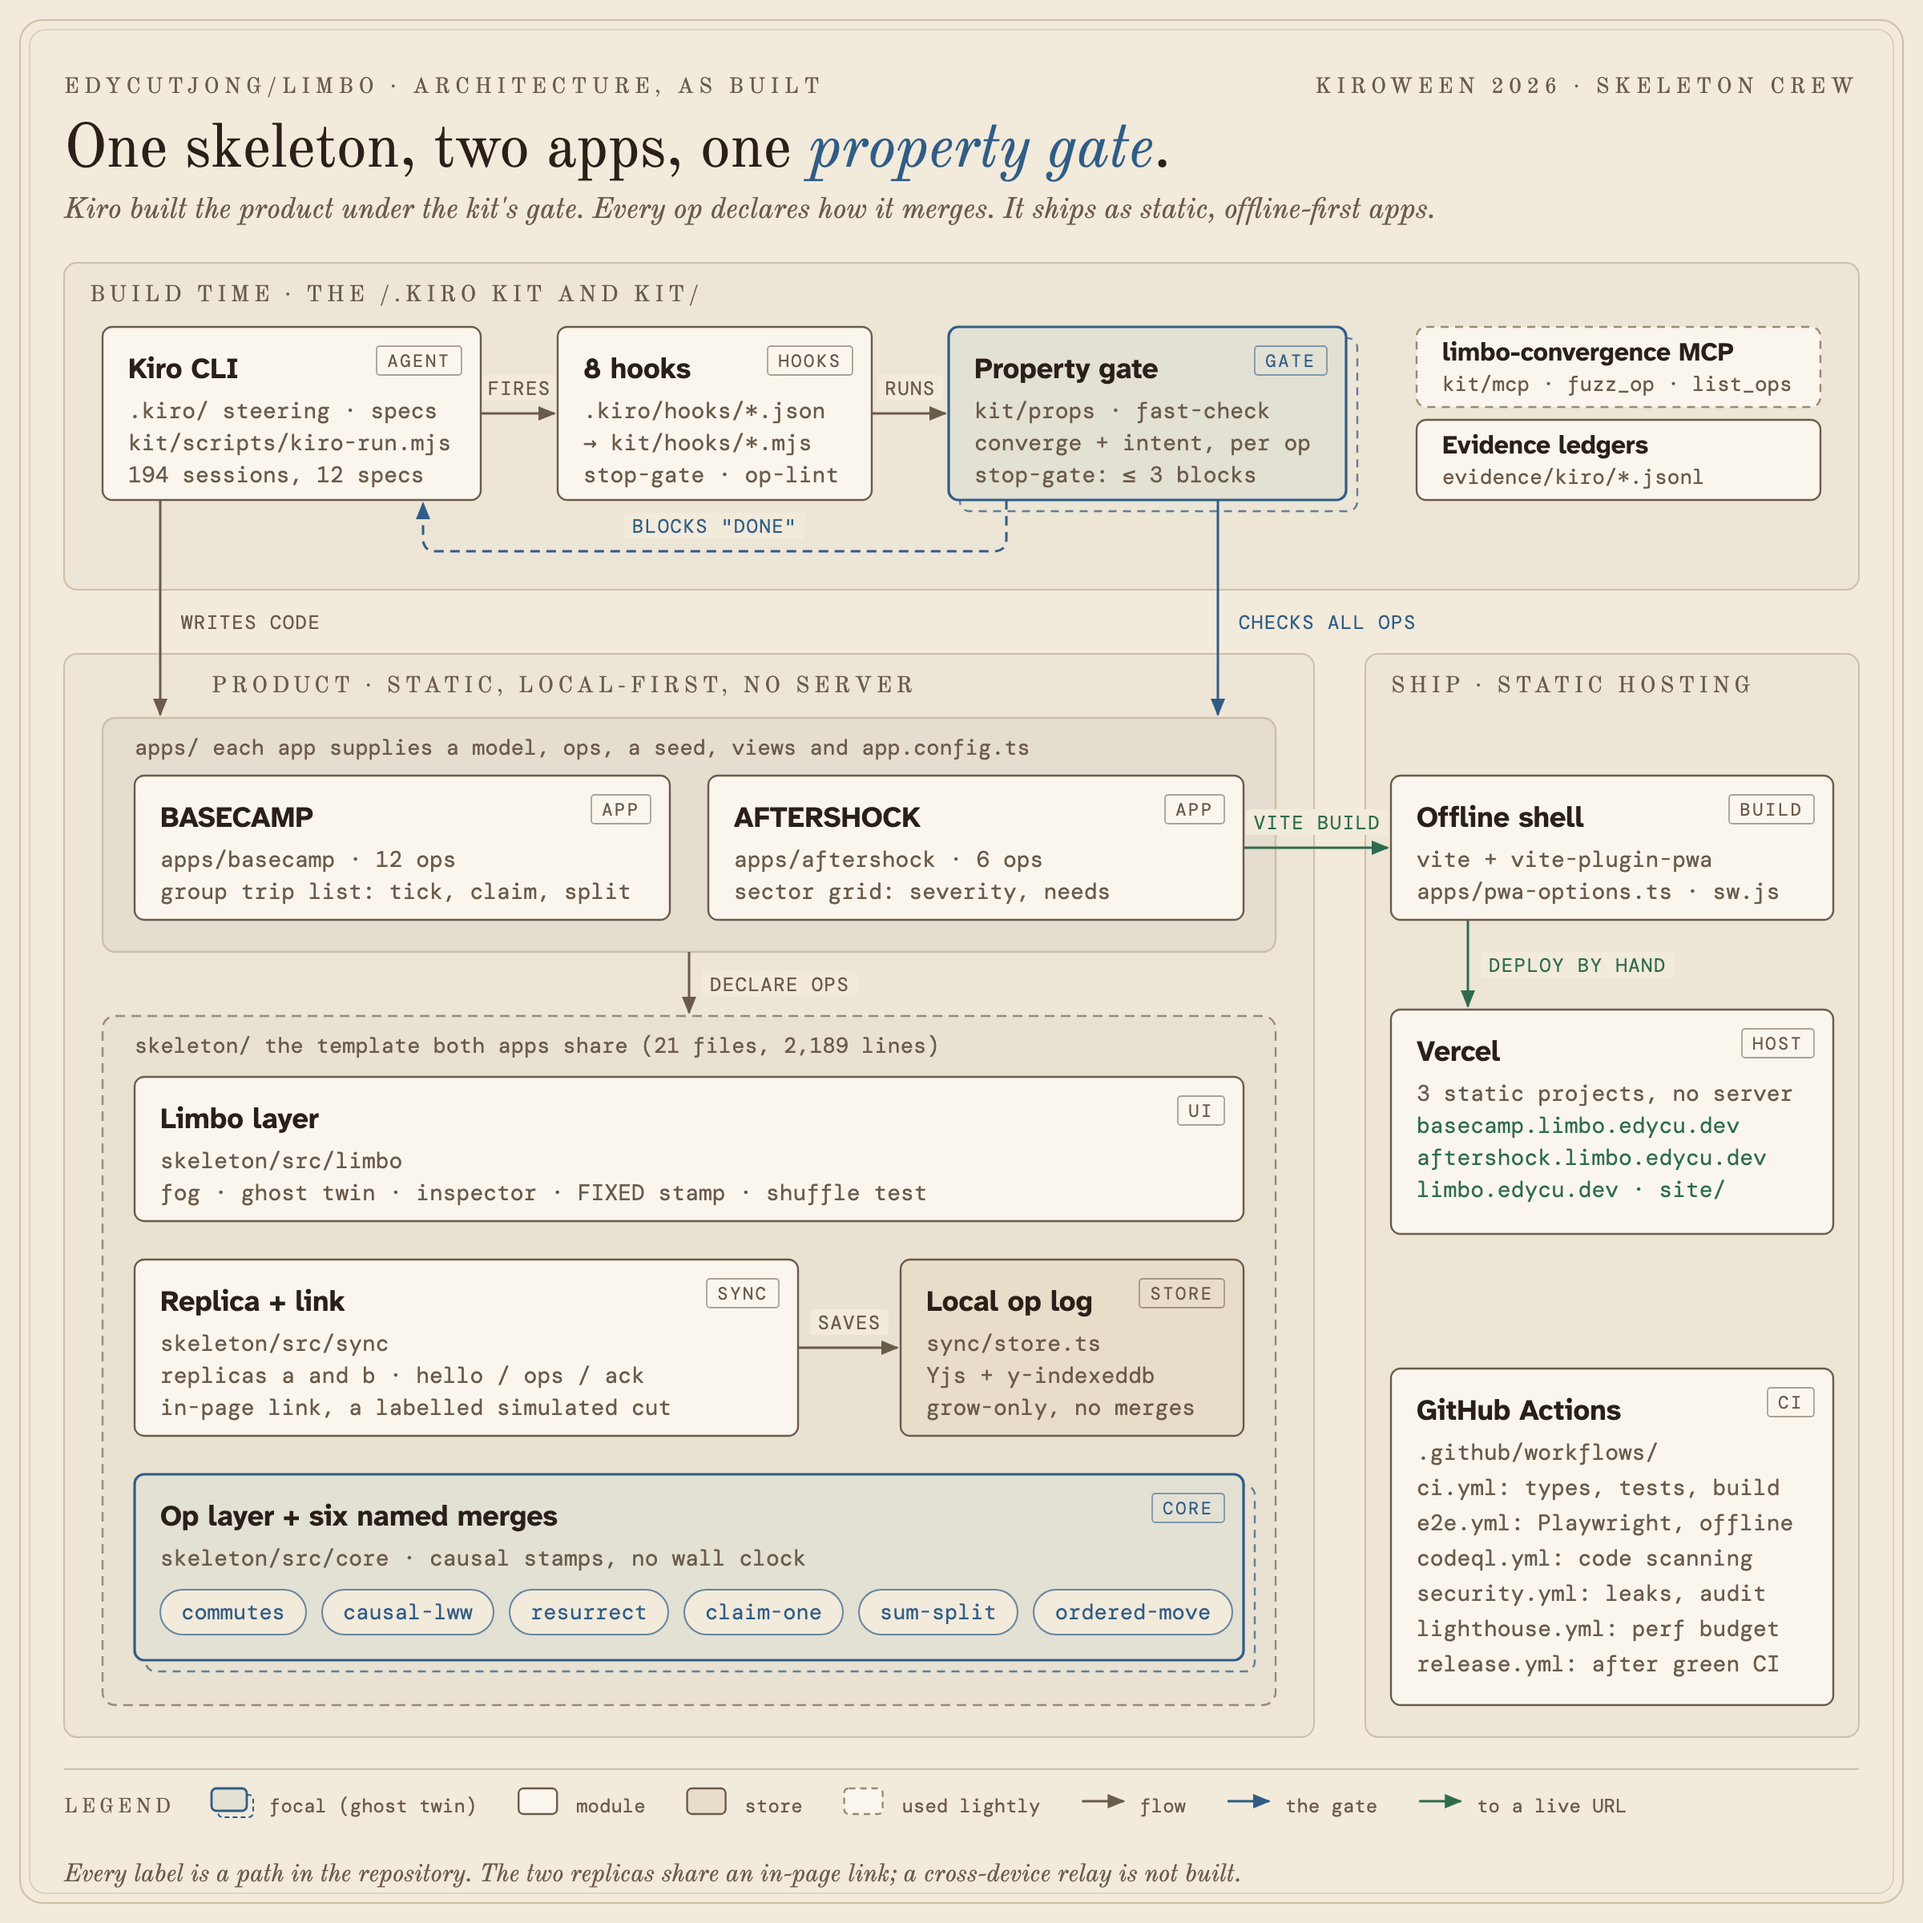
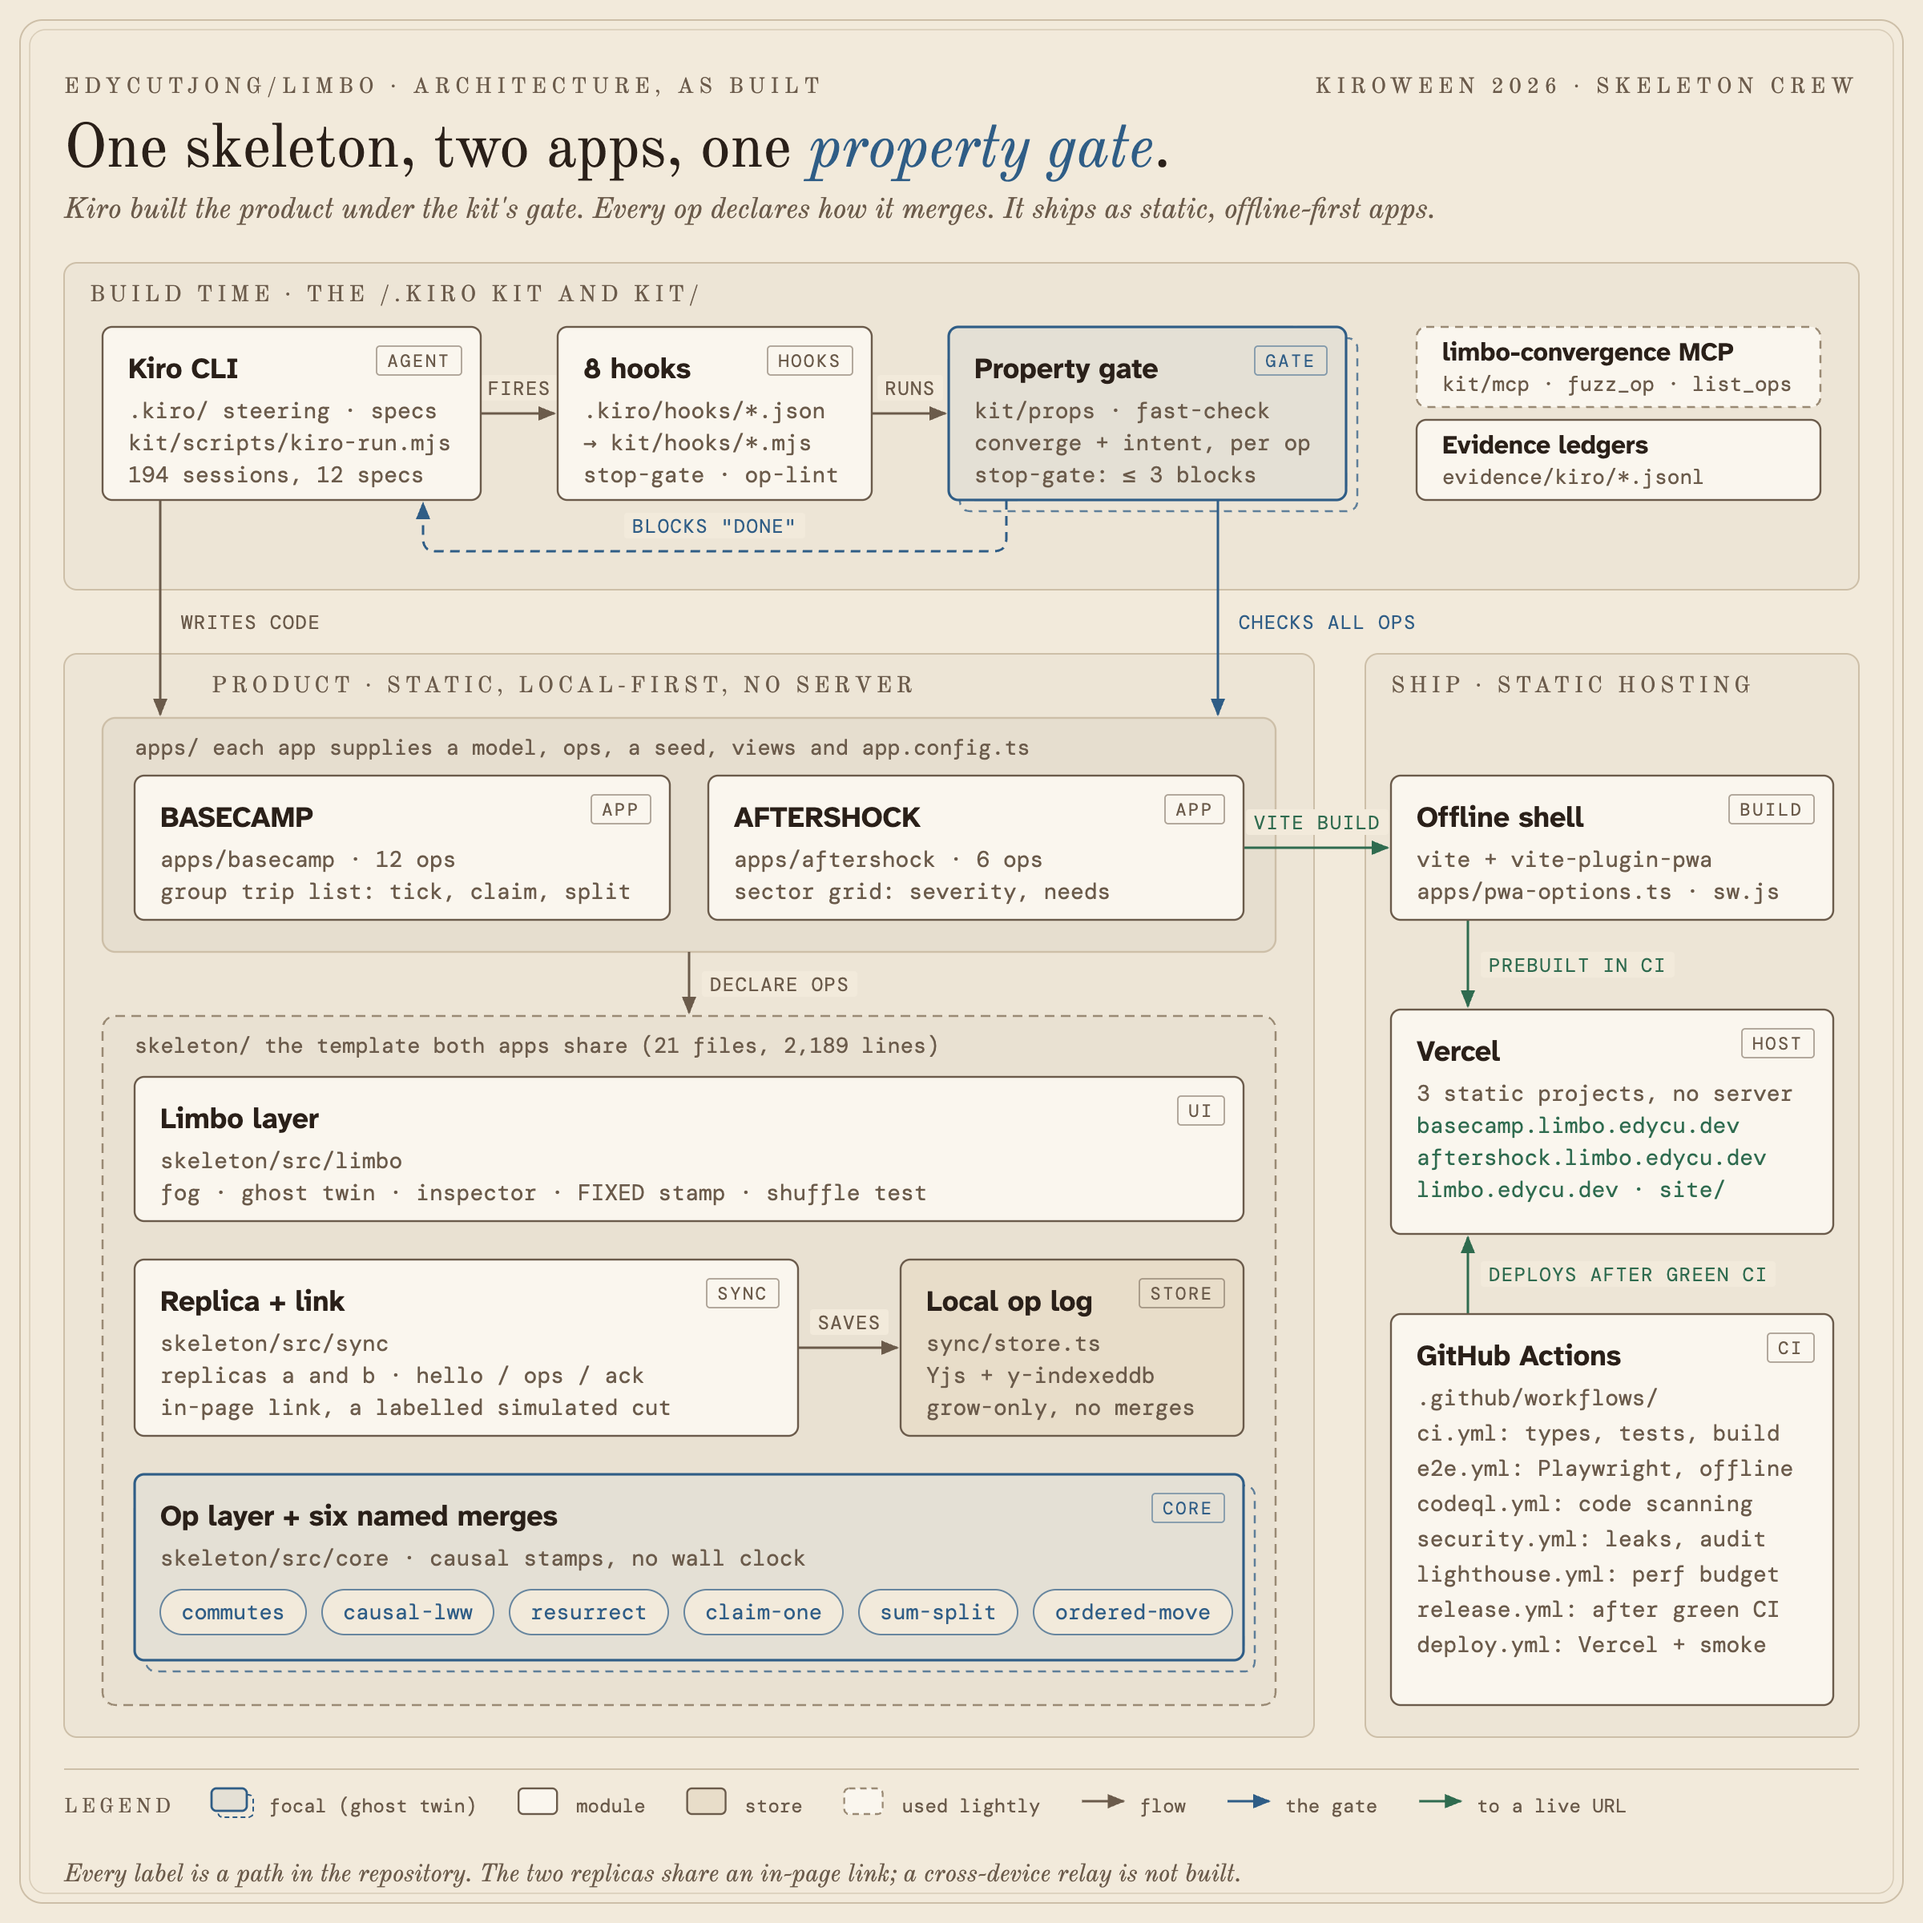
docs: deploys run from the Deploy workflow, not by hand
README CI/CD paragraph names seven workflows and describes deploy.yml; the architecture figure (redrawn from
the kitchen generator) shows the Deploy workflow shipping to Vercel after green CI; DEMO gains the live-sites row.

Changed region(s): [[0.7188, 0.6562, 0.9375, 0.875]]

diff --git a/README.md b/README.md
@@ -82,7 +82,7 @@ picks one claimant deterministically when they reconnect, and the other person i
 
 ## 🏗 Architecture & Tech Stack
 
-<p align="center"><img src="docs/architecture.png" alt="LIMBO architecture as built. Build time: the Kiro CLI fires 8 hooks that run the property gate (kit/props), which checks every op of both apps and blocks the agent's 'done' while a property fails. Product: BASECAMP and AFTERSHOCK declare ops on the skeleton, a Limbo UI layer, replica and link, a local Yjs op log and an op layer with six named merges. Ship: a vite-plugin-pwa offline shell deployed by hand to three static Vercel projects; GitHub Actions run the checks." width="100%"></p>
+<p align="center"><img src="docs/architecture.png" alt="LIMBO architecture as built. Build time: the Kiro CLI fires 8 hooks that run the property gate (kit/props), which checks every op of both apps and blocks the agent's 'done' while a property fails. Product: BASECAMP and AFTERSHOCK declare ops on the skeleton, a Limbo UI layer, replica and link, a local Yjs op log and an op layer with six named merges. Ship: a vite-plugin-pwa offline shell, built in CI and deployed to three static Vercel projects by the Deploy workflow after a green CI run; GitHub Actions run the checks." width="100%"></p>
 
 Every box in the figure names a real path. The gate is the loop at the top: a Kiro session fires the hooks, the hooks run the properties, and `stop-gate` refuses "done" (at most 3 times per session) while one fails.
 
@@ -208,7 +208,7 @@ in-page link, or through a dev-only test relay in the e2e suite.
   tests in 105 files; `pnpm props`: 359 property tests pass, 9 skipped, 22 files). `pnpm e2e:ci`: **26 Playwright tests pass** (2 skipped), including
   `/judge` with no credentials. `pnpm typecheck` is clean and `pnpm lint` passes on all 18 op files. Steps and expected output: [`DEMO.md`](DEMO.md).
   The exclusions from the coverage gate (entry points, workers, views) and their reasons are in [`vitest.config.ts`](vitest.config.ts).
-- **CI/CD: six GitHub Actions workflows, every check blocking.**
+- **CI/CD: seven GitHub Actions workflows, every check blocking.**
   [`ci.yml`](.github/workflows/ci.yml): typecheck, op lint, the `/.kiro` root and gate-integrity checks, the `/judge` mirror check, the full suite at 100%
   coverage, both builds with a bundle budget and a landing-hero freshness check (a check fails the build if `/.kiro` is ignored or empty).
   [`e2e.yml`](.github/workflows/e2e.yml): Playwright. [`codeql.yml`](.github/workflows/codeql.yml): code scanning of the TypeScript and of the workflows.
@@ -216,7 +216,11 @@ in-page link, or through a dev-only test relay in the e2e suite.
   moderate and above), dependency review on pull requests. [`lighthouse.yml`](.github/workflows/lighthouse.yml): Lighthouse CI, median of 3 desktop runs,
   on both app builds and the landing and `/judge` pages (performance ≥ 0.9, accessibility ≥ 0.95, LCP ≤ 2.5 s, CLS ≤ 0.1).
   [`release.yml`](.github/workflows/release.yml): a semver tag and GitHub release from Angular commit messages, only after a green CI run on `main`.
-  Dependabot groups npm and Actions updates weekly. Deploys are run by hand from the Vercel CLI; no workflow deploys. A local run of the same checks,
+  [`deploy.yml`](.github/workflows/deploy.yml): continuous deployment of the three Vercel projects after that same green CI run, and only while
+  that commit is still the tip of `main`. Each project is built in the job and shipped prebuilt (`vercel pull`, `vercel build --prod`,
+  `vercel deploy --prebuilt --prod`, CLI pinned); each leg waits until its live domain serves the new build byte for byte, then a smoke job checks
+  the five live URLs, checks that `/judge` shows the test count in `evidence/ci/latest.json`, and runs the live Playwright suite against the deployed apps.
+  Dependabot groups npm and Actions updates weekly. A local run of the same checks,
   with machine and versions, is committed as a receipt: [`evidence/ci/`](evidence/ci/) (`node kit/scripts/ci-local.mjs`).
 - **Built during the submission period.** First commit: 2026-11-15 (`git log --reverse`). The period opened 2026-10-30.
   **Pre-existing code: none.** Libraries: Yjs, y-indexeddb, React, Vite, vite-plugin-pwa, fast-check, Vitest, Playwright.

diff --git a/DEMO.md b/DEMO.md
@@ -14,6 +14,7 @@ Numbers below are the ones printed in [`README.md`](README.md). Each row says wh
 | Offline e2e (two browser contexts), BASECAMP 10 of 10 repeats; AFTERSHOCK 10 of 10 in `evidence/aftershock/e2e/ten-runs.txt` | `pnpm e2e` (starts the preview servers itself); the 10-repeat loop is `pnpm e2e:spike:10` | all local tests pass | [`task-21-repeat10.txt`](evidence/e2e/task-21-repeat10.txt) |
 | 26 Playwright tests pass (2 skipped), including `/judge` with no credentials | `pnpm e2e:ci` | `26 passed`, `2 skipped` | terminal, [`evidence/ci/`](evidence/ci/) |
 | Live e2e against both URLs, 6 of 6 | `pnpm e2e:live` (needs network and the live URLs) | 6 passed | [`evidence/live/`](evidence/live/) |
+| The live sites serve `main` | the Deploy workflow ([`deploy.yml`](.github/workflows/deploy.yml)), after each green CI run on `main` | each project's live domain serves its CI build byte for byte; the five live URLs answer 200; `/judge` shows the count in `evidence/ci/latest.json`; the live Playwright suite passes | the Deploy run's summary in GitHub Actions |
 | Kiro ledger numbers (211 rows, 194 Kiro, 179 sessions in 12 specs (160 numbered tasks), 679.87 credits, 1,824 hook fires, 2 Stop blocks, 4 denials) | `node kit/scripts/readme-tally.mjs` | prints and writes `evidence/kiro/tally.json` | [`tally.json`](evidence/kiro/tally.json) |
 | Kiro share 92.74% (115 of 124 product commits) | `pnpm share` | rewrites `evidence/kiro/share.json` | [`share.json`](evidence/kiro/share.json) |
 | Skeleton 21 files, 2,189 lines by the budget count (wider count: 24 files, 2,520 non-blank lines, 2,297 non-comment) | `node kit/scripts/readme-tally.mjs` | writes `evidence/lean.json` | [`lean.json`](evidence/lean.json) |
